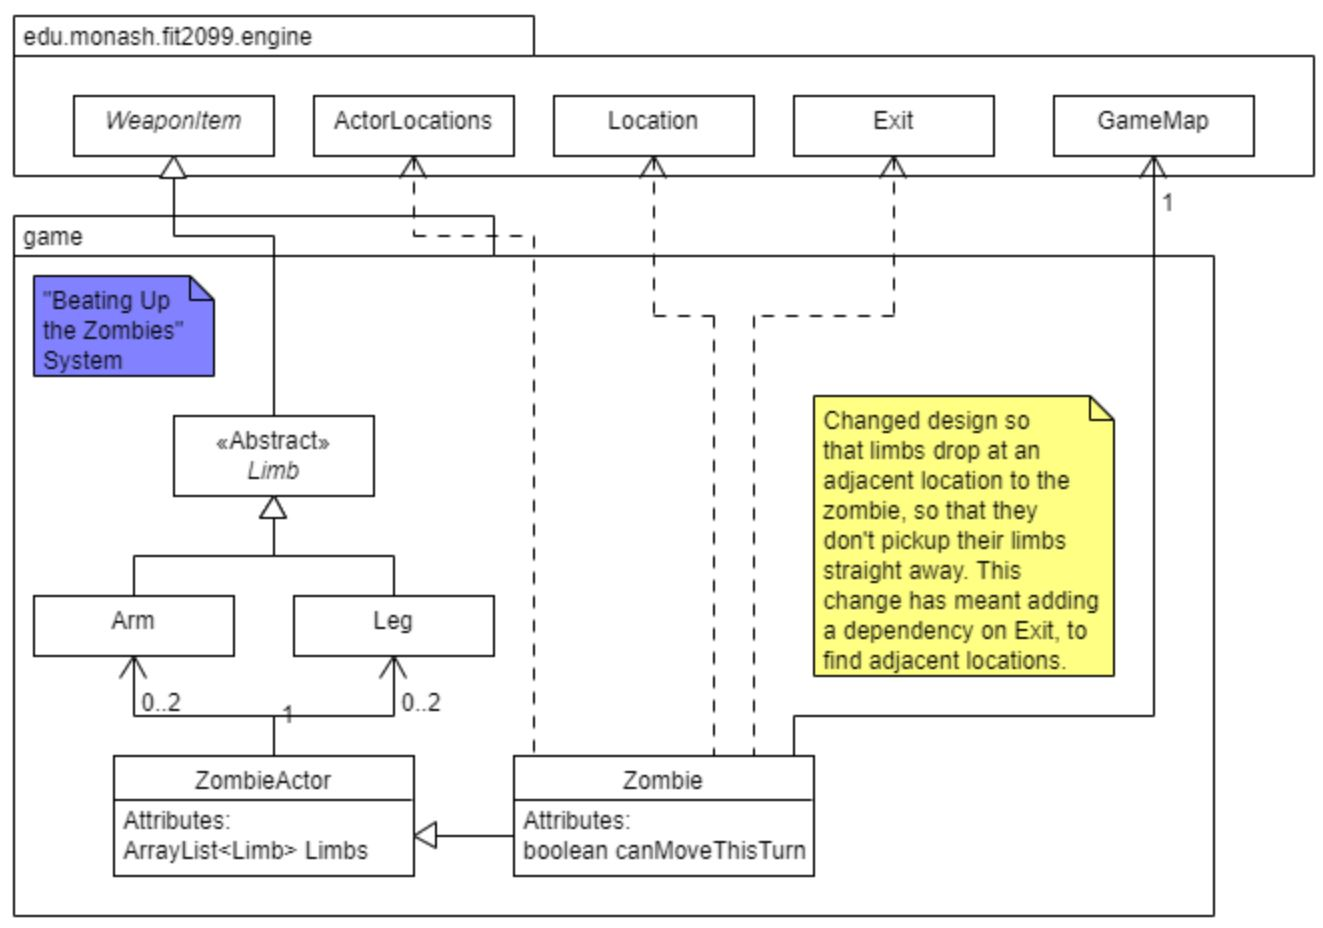
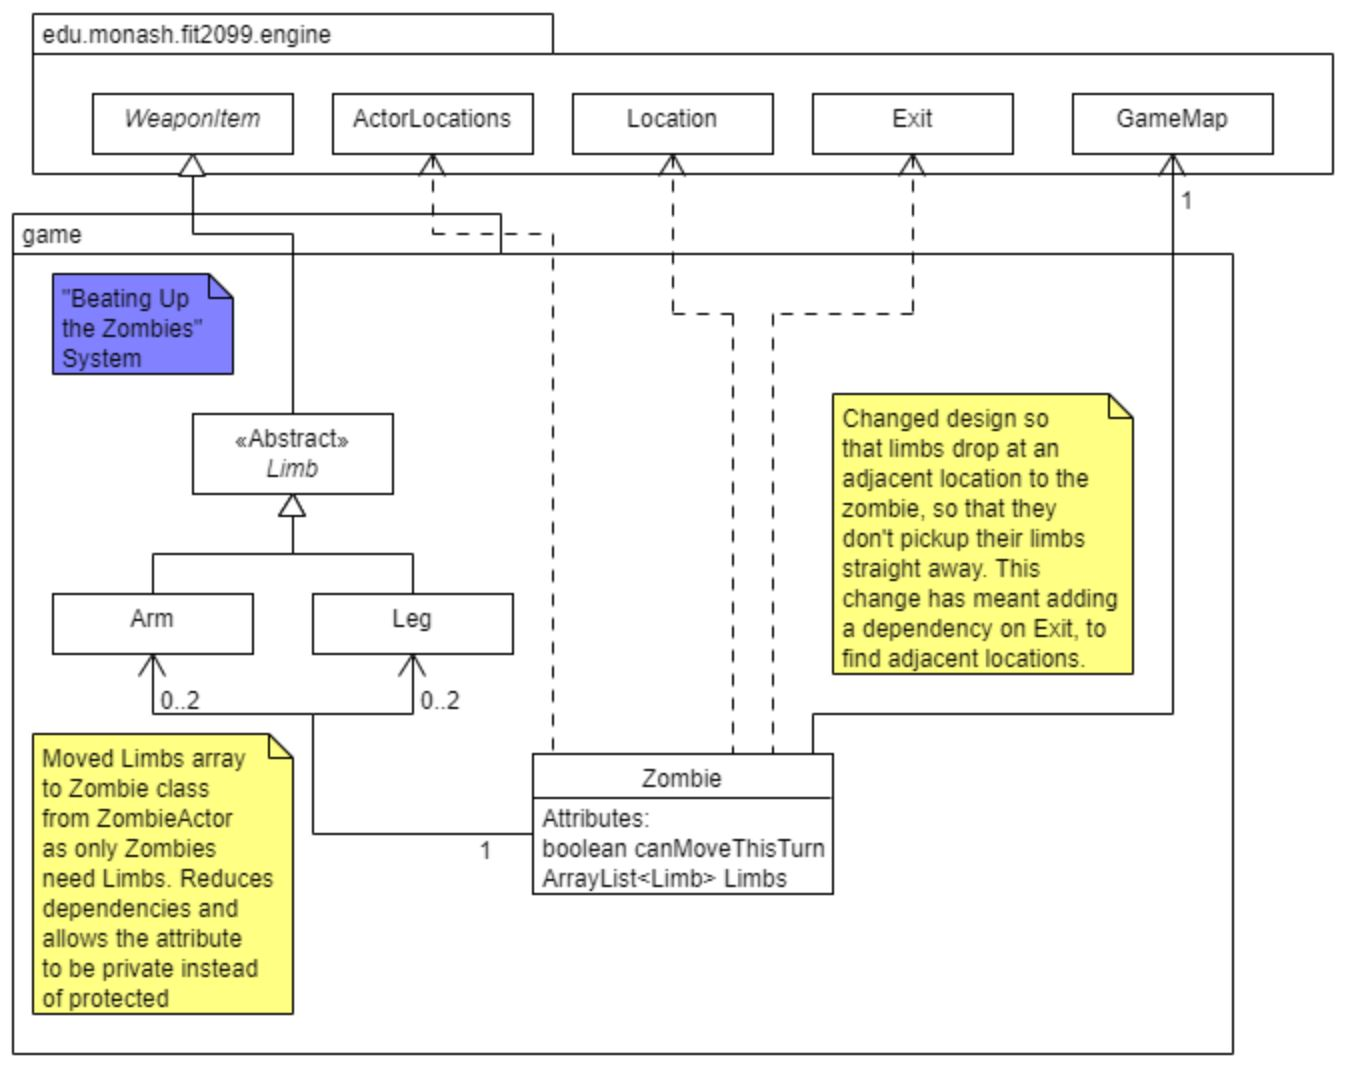
Moved Limbs array from ZombieActor to Zombie class

diff --git a/src/game/Zombie.java b/src/game/Zombie.java
@@ -1,5 +1,7 @@
 package game;
 
+import java.util.ArrayList;
+import java.util.List;
 import java.util.Random;
 
 import edu.monash.fit2099.engine.Action;
@@ -30,9 +32,18 @@ public class Zombie extends ZombieActor {
 	private GameMap map;
 	private Random rand = new Random();
 	private boolean canMoveThisTurn = false;
+	protected List<Limb> limbs;
 
 	public Zombie(String name, GameMap gameMap) {
 		super(name, 'Z', 100, ZombieCapability.UNDEAD);
+		
+		limbs = new ArrayList<>();
+		// All actors start with 2 arms and 2 legs
+		limbs.add(new Arm());
+		limbs.add(new Arm());
+		limbs.add(new Leg());
+		limbs.add(new Leg());
+		
 		map = gameMap;
 	}
 	
@@ -135,6 +146,16 @@ public class Zombie extends ZombieActor {
 		Location dropLocation = map.locationOf(this);
 		int selectedExit = rand.nextInt(dropLocation.getExits().size());
 		dropLocation.getExits().get(selectedExit).getDestination().addItem(item);
+	}
+	
+	private int getLimbCount(String nameOfLimb) {
+		int tally = 0;
+		for (Limb aLimb: limbs) {
+			if (aLimb.toString() == nameOfLimb) {
+				tally += 1;
+			}
+		}
+		return tally;
 	}
 	
 }

diff --git a/src/game/ZombieActor.java b/src/game/ZombieActor.java
@@ -1,8 +1,5 @@
 package game;
 
-import java.util.ArrayList;
-import java.util.List;
-
 import edu.monash.fit2099.engine.Actions;
 import edu.monash.fit2099.engine.Actor;
 import edu.monash.fit2099.engine.GameMap;
@@ -13,19 +10,10 @@ import edu.monash.fit2099.engine.GameMap;
  *
  */
 public abstract class ZombieActor extends Actor {
-	
-	protected List<Limb> limbs;
-	
-	
+		
 	public ZombieActor(String name, char displayChar, int hitPoints, ZombieCapability team) {
 		super(name, displayChar, hitPoints);
-		
-		limbs = new ArrayList<>();
-		limbs.add(new Arm());
-		limbs.add(new Arm());
-		limbs.add(new Leg());
-		limbs.add(new Leg());
-		
+				
 		addCapability(team);
 	}
 	
@@ -35,15 +23,5 @@ public abstract class ZombieActor extends Actor {
 		if (otherActor.hasCapability(ZombieCapability.UNDEAD) != this.hasCapability(ZombieCapability.UNDEAD))
 			list.add(new AttackAction(this));
 		return list;
-	}
-	
-	protected int getLimbCount(String nameOfLimb) {
-		int tally = 0;
-		for (Limb aLimb: limbs) {
-			if (aLimb.toString() == nameOfLimb) {
-				tally += 1;
-			}
-		}
-		return tally;
 	}
 }

diff --git a/src/game/Application.java b/src/game/Application.java
@@ -49,7 +49,7 @@ public class Application {
 		GameMap gameMap = new GameMap(groundFactory, map );
 		world.addGameMap(gameMap);
 		
-		Actor player = new Player("Player", '@', 1000000000);
+		Actor player = new Player("Player", '@', 100);
 		world.addPlayer(player, gameMap.at(42, 15));
 		
 	    // Place some random humans
